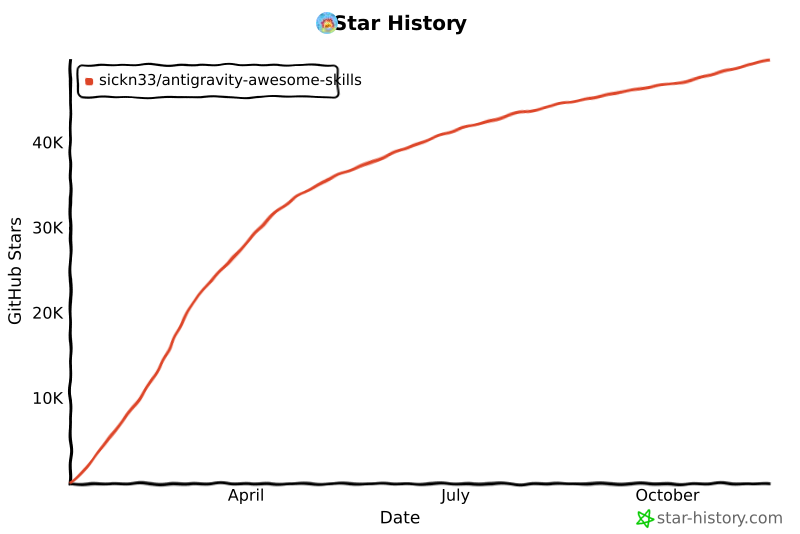
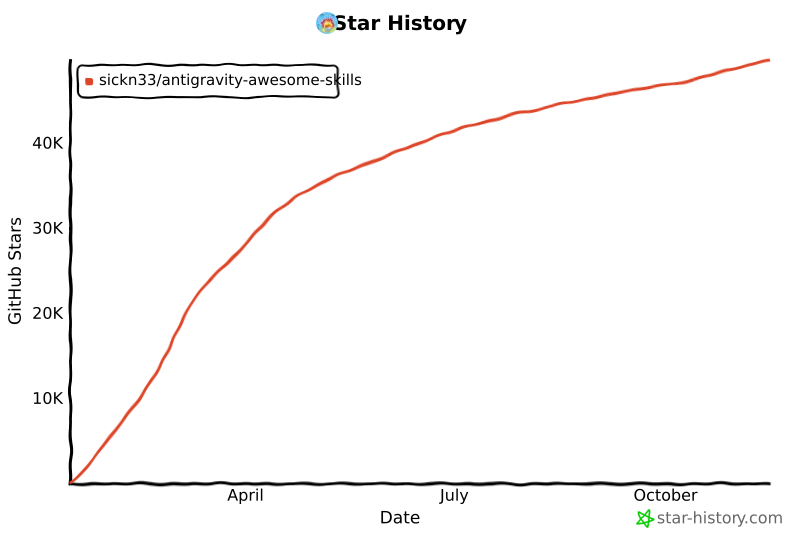
chore: update star history chart

diff --git a/README.md b/README.md
@@ -487,14 +487,14 @@ We officially thank the following contributors for their help in making this rep
 ## Star History
 
 <a href="https://www.star-history.com/#sickn33/antigravity-awesome-skills&type=date&legend=top-left">
- <img alt="Star History Chart" src="https://api.star-history.com/svg?repos=sickn33/antigravity-awesome-skills&type=date&legend=top-left&cache_bust=202611151303" />
+ <img alt="Star History Chart" src="https://api.star-history.com/svg?repos=sickn33/antigravity-awesome-skills&type=date&legend=top-left&cache_bust=202611161408" />
 </a>
 
 <a href="https://www.star-history.com/sickn33/antigravity-awesome-skills">
  <picture>
-   <source media="(prefers-color-scheme: dark)" srcset="https://api.star-history.com/chart?repos=sickn33/antigravity-awesome-skills&style=landscape1&theme=dark&cache_bust=202611151303" />
-   <source media="(prefers-color-scheme: light)" srcset="https://api.star-history.com/chart?repos=sickn33/antigravity-awesome-skills&style=landscape1&cache_bust=202611151303" />
-   <img alt="Star History Chart" src="https://api.star-history.com/chart?repos=sickn33/antigravity-awesome-skills&style=landscape1&cache_bust=202611151303" />
+   <source media="(prefers-color-scheme: dark)" srcset="https://api.star-history.com/chart?repos=sickn33/antigravity-awesome-skills&style=landscape1&theme=dark&cache_bust=202611161408" />
+   <source media="(prefers-color-scheme: light)" srcset="https://api.star-history.com/chart?repos=sickn33/antigravity-awesome-skills&style=landscape1&cache_bust=202611161408" />
+   <img alt="Star History Chart" src="https://api.star-history.com/chart?repos=sickn33/antigravity-awesome-skills&style=landscape1&cache_bust=202611161408" />
  </picture>
 </a>
 
